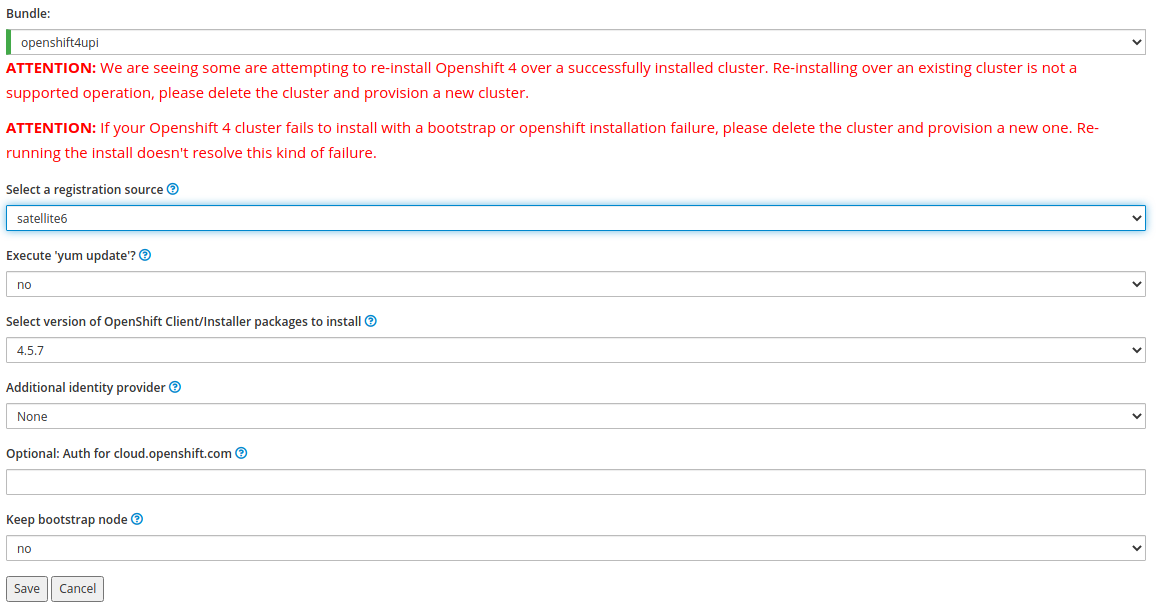
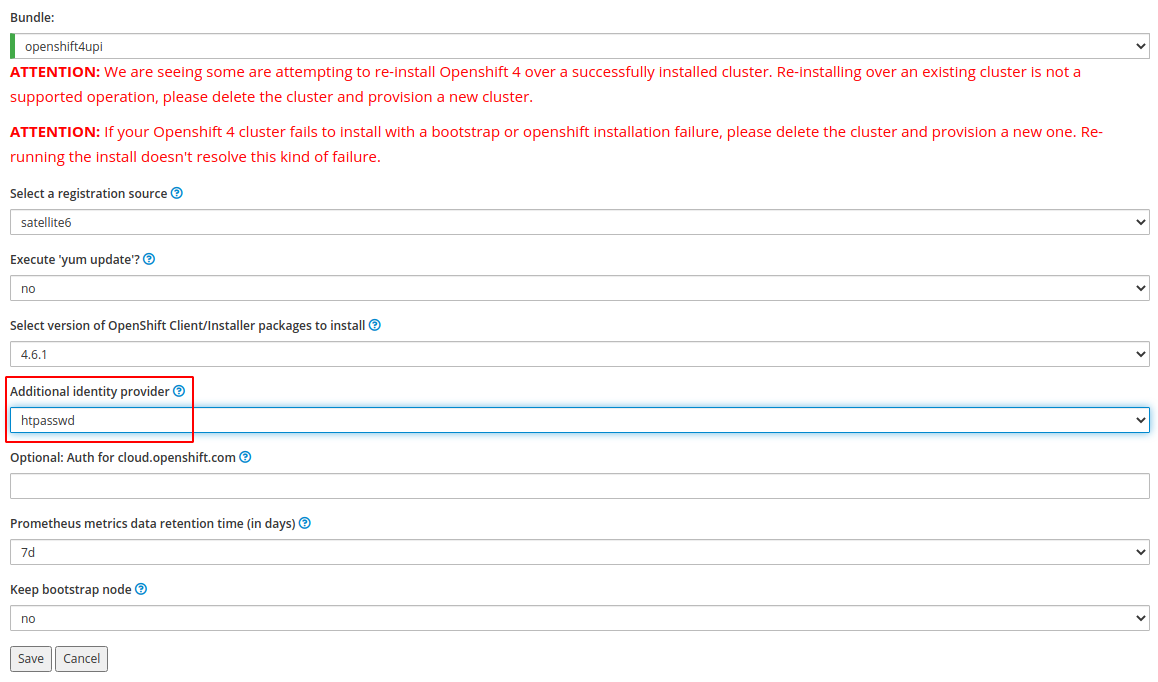
feat(quicklab): Use provided htpasswd instead (#69)

Changed region(s): [[0.0, 0.0, 1.0, 0.9886]]

diff --git a/docs/downstream/quicklab.md b/docs/downstream/quicklab.md
@@ -18,64 +18,48 @@
 
 6. Now click on **New Bundle** button in **Product information** section
 
-7. Select **openshift4upi** bundle. A new form loads - you can keep all the values as they are (you can ignore the warning on top as well, since this is the first install attempt of Openshift on that cluster):
+7. Select **openshift4upi** bundle. A new form loads. **Opt-in for the `htpasswd` credentials provider.** (You can ignore the warning on top as well, since this is the first install attempt of Openshift on that cluster):
    ![Select a bundle](../assets/images/quicklab/bundle_select.png)
 
 8. Wait for OCP4 to install. After successful installation you should see a cluster history log like this:
    ![Cluster log after OCP4 install](../assets/images/quicklab/cluster_log_2.png)
 
-9. Use the link and credentials from the **Cluster Information** section to access your cluster.
+9. Use the link and credentials from the **Cluster Information** section to access your cluster. Verify it contains login information for both `kube:admin` and `quicklab` user.
    ![Cluster information](../assets/images/quicklab/cluster_information.png)
 
-10. Login as the `kubeadmin`, take the value from "Hosts" and port 6443.\
+10. Login as the `kube:admin`, take the value from "Hosts" and port 6443.
     For example:
 
-   ```sh
-   oc login upi-0.tcoufaltest.lab.upshift.rdu2.redhat.com:6443
-   ```
+```sh
+oc login upi-0.tcoufaltest.lab.upshift.rdu2.redhat.com:6443
+```
 
 ## Install Argo CD on your cluster
 
-1. kube:admin is not supported in user api, therefore you have to create additional user. Simplest way is to deploy an Oauth via Htpasswd:
+1. `kube:admin` is not supported in user api, that's why we've opted in for the `htpasswd` provider during the bundle install.
 
-2. Create a htpasswd config file and deploy it to OpenShift:
+2. Log in as the `quicklab` user using the `htpasswd` provider in the web console. To create the Openshift user. Then log out.
 
-   ```sh
-   $ htpasswd -nb username password > oc.htpasswd
-   $ oc create secret generic htpass-secret --from-file=htpasswd=oc.htpasswd -n openshift-config
-   $ cat <<EOF | oc apply -f -
-   apiVersion: config.openshift.io/v1
-   kind: OAuth
-   metadata:
-     name: cluster
-   spec:
-     identityProviders:
-     - name: my_htpasswd_provider
-       mappingMethod: claim
-       type: HTPasswd
-       htpasswd:
-         fileData:
-           name: htpass-secret
-   EOF
-   ```
+3. Login as the `kube:admin` user in the web console and your local cli client.
 
-3. Grant the new user admin cluster-admin rights
+4. Grant the htpasswd's `quicklab` user admin cluster-admin rights
 
    ```sh
-   oc adm policy add-cluster-role-to-user cluster-admin username
+   oc adm policy add-cluster-role-to-user cluster-admin quicklab
    ```
 
-4. Now log out and log in using the htpasswd provider (the new username). Generate new API token and login via this token on your local CLI
+5. Now log out and log in using the htpasswd provider (the new username). Generate new API token and login via this token on your local CLI
 
-5. Now you can follow the upstream docs. Create the projects:
+6. Now you can follow the upstream docs. Create the projects:
+
    ```sh
    oc new-project argocd-test
    oc new-project aicoe-argocd-dev
    ```
 
-6. Make sure you have imported the required [gpg keys](../../README.md#gpg-key-access)
+7. Make sure you have imported the required [gpg keys](../../README.md#gpg-key-access)
 
-7. And deploy
+8. And deploy
 
    ```sh
    $ kustomize build manifests/crds --enable_alpha_plugins | oc apply -f -
